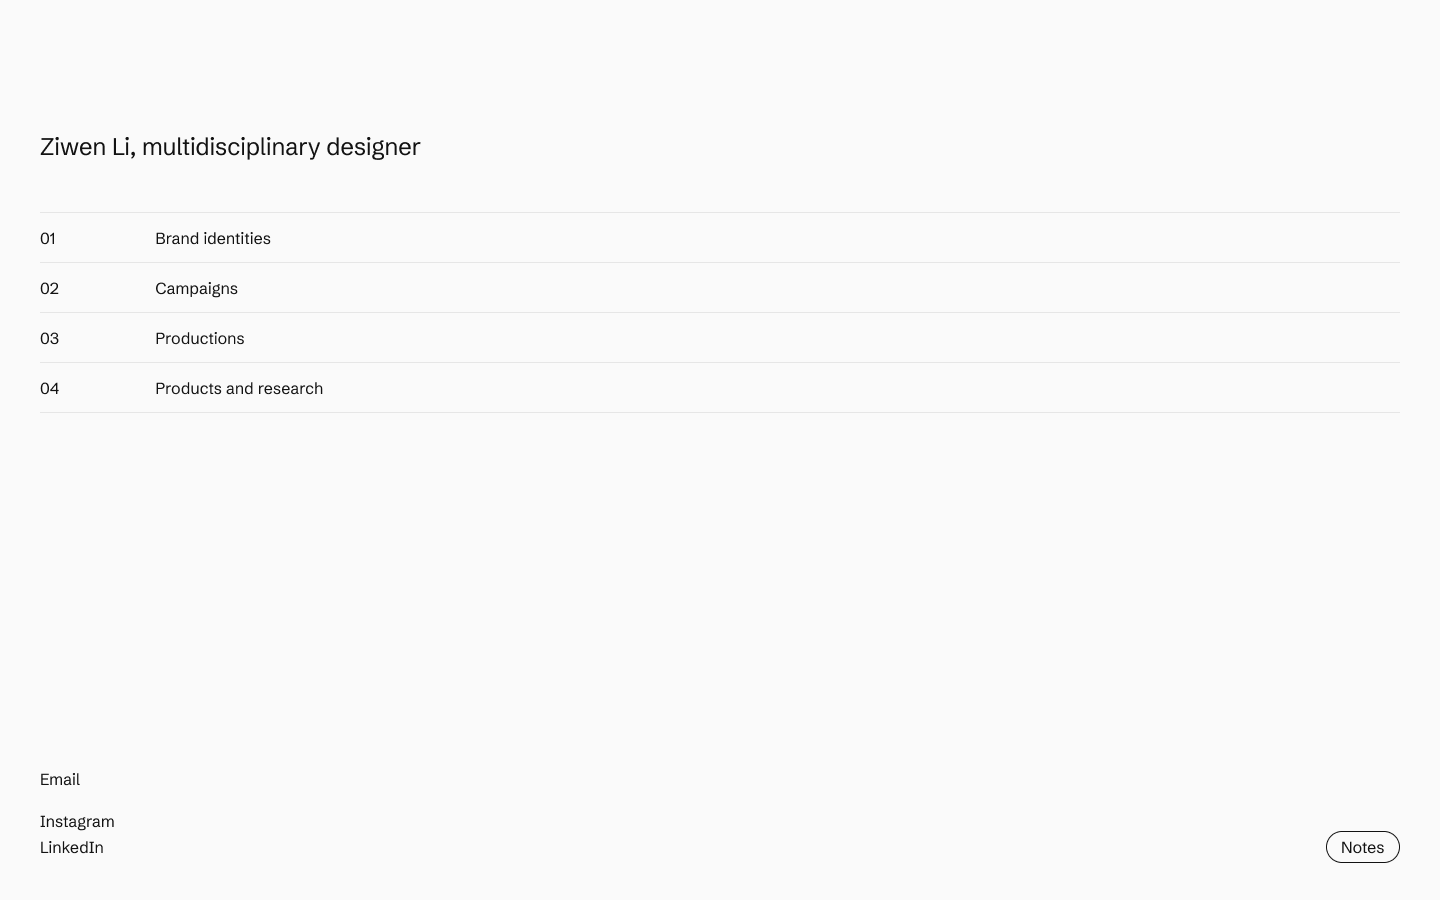
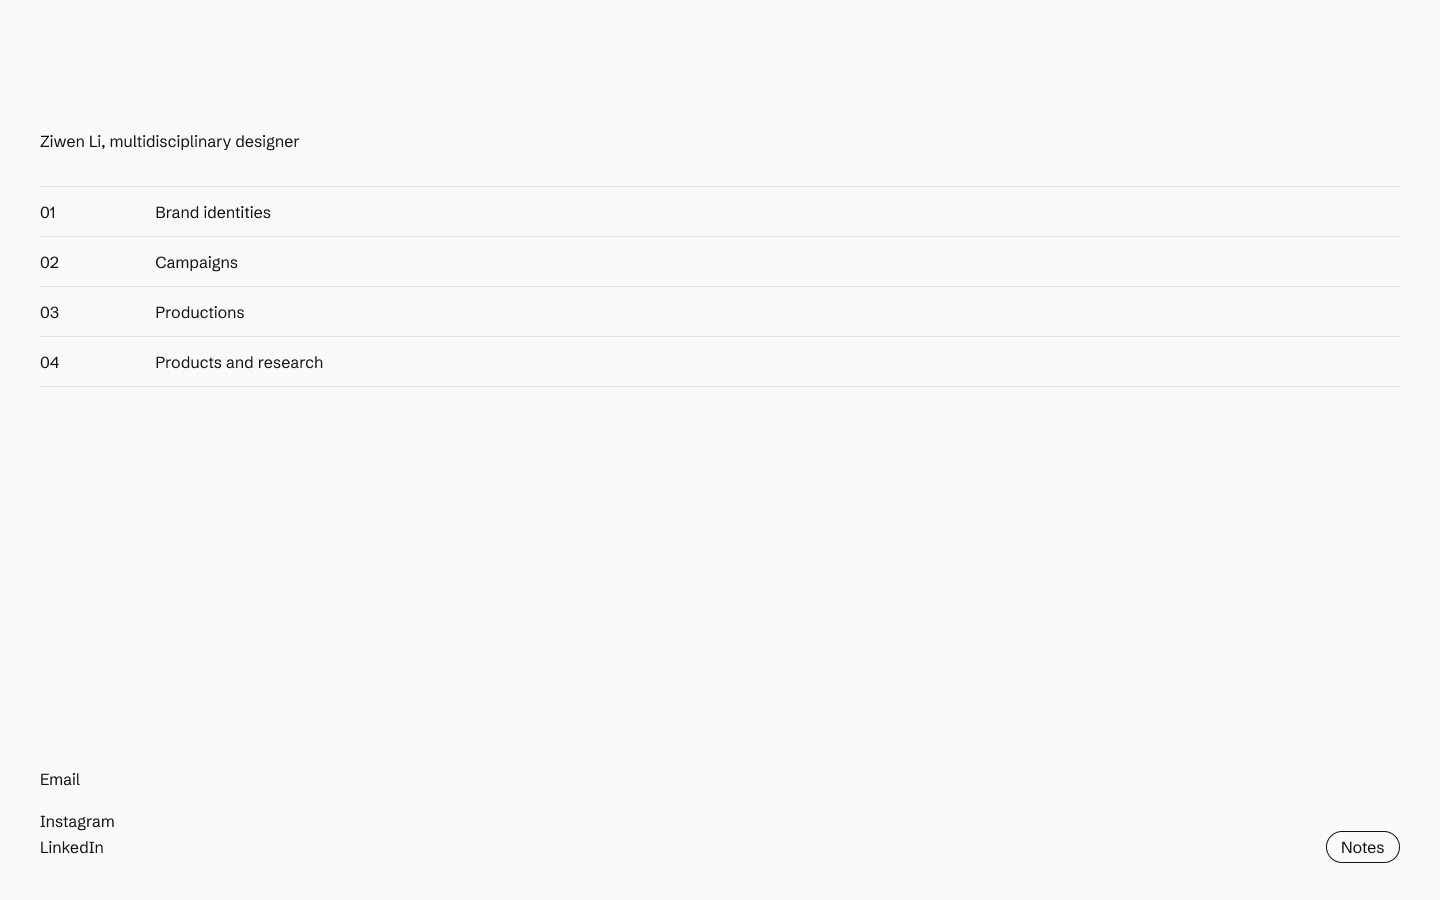
Home Index: name line at body size

Changed region(s): [[0.0938, 0.2178, 0.2188, 0.4356], [0.0312, 0.1556, 0.2812, 0.1867]]

diff --git a/docs/design-rules.md b/docs/design-rules.md
@@ -171,7 +171,7 @@ Figma：文字样式 `Desktop/*` 和 `Mobile/*`。代码：Tailwind 的默认字
 - 页面左右留白：桌面 40，平板 24，手机 16。
 - **[已定 2026-11-25]** 桌面 12 栏网格，栏间距 24，左右留白 40（1440 宽时每栏约 91px）；手机 4 栏，栏间距 16。所有元素的起点和宽度都对齐栏。
 - 首页：介绍占第 1 到 8 栏，离顶部 128（试过 40 太贴顶、96 和边距差得不够明显）；底部离底边 40：左下角是竖排、左对齐的联系方式（Email，空一行，Instagram、LinkedIn），Body 16，无下划线；右下角是 Index 描边胶囊按钮，右对齐第 12 栏；按钮里的文字和 LinkedIn 同一条基线（横向对齐看文字基线，不看外框），所以胶囊下沿比底部留白多出 3px。在 Index 页面，同一个按钮写 Notes。介绍字号 24，行距 1.5（36px）。
-- 首页 Index 模式（桌面）[草稿 2026-11-25]：离顶部 128 一行 “Ziwen Li, multidisciplinary designer”（24），下面 48 是首页介绍里那几个高亮关键词组成的列表，大小和项目列表一样（每行 50 高、Body 16），但没有表头，也没有项目数：只有编号和关键词，上下都是 Hairline。点击进入领域页。底部和首页一样，按钮写 Notes。
+- 首页 Index 模式（桌面）[草稿 2026-11-25]：离顶部 128 一行 “Ziwen Li, multidisciplinary designer”（Body 16，和列表同样大小；Index 是朴素模式，所有字一样大），下面 32 是首页介绍里那几个高亮关键词组成的列表，大小和项目列表一样（每行 50 高、Body 16），但没有表头，也没有项目数：只有编号和关键词，上下都是 Hairline。点击进入领域页。底部和首页一样，按钮写 Notes。
 - 领域页 Index 模式：项目列表（No.、Project 第 2 栏、Discipline 第 7 栏、Context 第 10 栏、Year 右对齐第 12 栏），表头 Small 13 + Ink 线，每行 50 高、Body 16，Hairline 分隔；页面比一屏长时，底部跟在列表后 128。Figma 里的 “All projects / Index” 是这个模板。
 - 首页手机（390 × 844）：4 栏，左右留白 16；介绍字号 20（Mobile/Heading），行距 1.5（30px），离顶部 96；底部留白 32（避开手机底部的横条）；联系方式和 Index 的排法和桌面一样，Index 文字和 LinkedIn 同一条基线。手机没有 hover，关键词点击直接进入领域页。
 - 内容最大宽度 1440，普通正文段落最大宽度约 640（每行 60 到 75 个字符）；首页介绍例外，占 8 栏。
